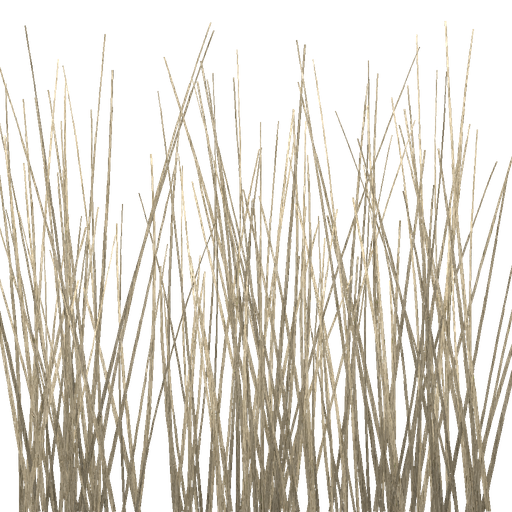
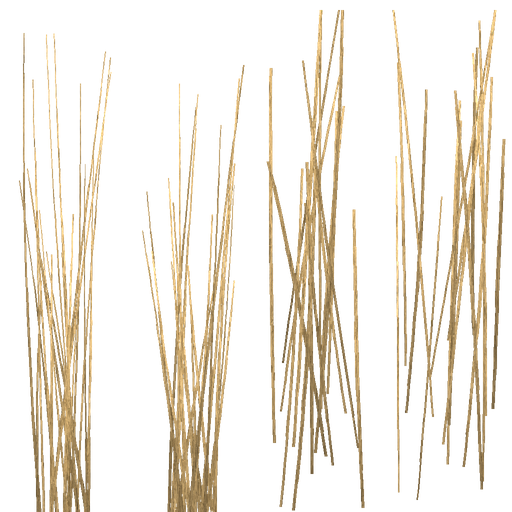
Jesle Dum2: nasypat seno – kupa + 1650 stébel (ambientCG CC0), materiál sena pro stodoly a půdy, test jesle_seno; poklop krčmy bez sklepa v modelu (nedělán)
Claude-Session: https://claude.ai/code/session_01DmjHz97xAq6SrpN6r8jG8o

diff --git a/puchart/nastroje/seno_textury.py b/puchart/nastroje/seno_textury.py
@@ -2,41 +2,58 @@
 Zdroj: ambientCG ThatchedRoof001A 1K-JPG (CC0, https://ambientcg.com/a/ThatchedRoof001A) – Color a NormalGL.
 Barva přeladěná na seno z předlohy KCD1 (medián kupy sRGB 143,130,107; světla 186,173,146 – rozbor fotky 15. 11.).
 Výstup hra/textury/seno/: seno_albedo.jpg (objem), seno_normal.jpg (objem), seno_stebla.png (karty stébel RGBA,
-pata dole v = 1, konec nahoře v = 0).   python3 nastroje/seno_textury.py <slozka ThatchedRoof001A_1K-JPG>"""
+pata dole v = 1, konec nahoře v = 0; 4 buňky vedle sebe: 0, 1 trsy z paty, 2, 3 volná stébla).   python3 nastroje/seno_textury.py <slozka ThatchedRoof001A_1K-JPG>"""
 import sys, os, math, random
 import numpy as np
 from PIL import Image, ImageDraw, ImageFilter
 SRC = sys.argv[1]; OUT = os.path.join(os.path.dirname(os.path.abspath(__file__)), "..", "hra", "textury", "seno")
 N = 512
 cil_median = np.array([143.0, 130.0, 107.0])       # KCD1 předloha, medián kupy
+TEPLO = np.array([1.06, 1.0, 0.86])   # ve hře chybí teplé odražené světlo (Compatibility bez GI, ambient z modré oblohy) – kupa na snímku vycházela šedomodrá; vyladěno snímkem tak, aby medián kupy ve hře ≈ předloha
 col = np.asarray(Image.open(os.path.join(SRC, "ThatchedRoof001A_1K-JPG_Color.jpg")).convert("RGB")).astype(float)
 med = np.median(col.reshape(-1, 3), axis=0)
-seno = np.clip((col - med) * 1.35 + cil_median, 0, 255)   # kontrast stébel o 35 % vyšší (předloha: světlé konce, tmavá hloubka)
+seno = np.clip(((col - med) * 1.35 + cil_median) * TEPLO, 0, 255)   # kontrast stébel o 35 % vyšší (předloha: světlé konce, tmavá hloubka)
 Image.fromarray(seno.astype(np.uint8)).resize((N, N), Image.LANCZOS).save(os.path.join(OUT, "seno_albedo.jpg"), quality=90)
 Image.open(os.path.join(SRC, "ThatchedRoof001A_1K-JPG_NormalGL.jpg")).convert("RGB").resize((N, N), Image.LANCZOS) \
     .save(os.path.join(OUT, "seno_normal.jpg"), quality=92)
 # --- stébla: kreslí se 2× větší a zmenší (vyhlazená alfa); barva stébla = proužek fotky sena podél vláken (svislá)
 S = 2 * N; rnd = random.Random(1393)
 # stébla světlejší než objem: 75. percentil kupy z předlohy (167,154,129) – volná stébla chytají světlo, objem je stín mezi nimi
-seno_st = np.clip((col - med) * 1.35 + np.array([167.0, 154.0, 129.0]), 0, 255)
+seno_st = np.clip(((col - med) * 1.35 + np.array([167.0, 154.0, 129.0])) * TEPLO * np.array([1.05, 1.0, 0.92]), 0, 255)   # stébla nahoře vycházela zelenomodrá (snímek: 66,72,59) – o 5 % teplejší
 foto = Image.fromarray(seno_st.astype(np.uint8)).resize((S, S), Image.LANCZOS)
 fa = np.asarray(foto).astype(float)
 rgb = np.zeros((S, S, 3)); alfa = Image.new("L", (S, S), 0); da = ImageDraw.Draw(alfa)
-for i in range(150):
-    x0 = rnd.uniform(0.04, 0.96) * S; delka = rnd.uniform(0.45, 1.0) * S * 0.97
-    sklon = rnd.uniform(-0.22, 0.22); ohyb = rnd.uniform(-0.12, 0.12)
-    w0 = rnd.uniform(5.0, 11.0); ton = rnd.uniform(0.82, 1.18); sx = rnd.randrange(S)
+# atlas BUNKY buněk vedle sebe (karta bere celou buňku – stébla nejsou useknutá hranou karty; snímek 15. 11.: výřezy
+# z jedné plochy stébel dávaly rovné hrany karet): buňky TRSY = trs, stébla z paty (trčící karty); ostatní = volná stébla
+# v různých směrech, celá uvnitř buňky (ležící karty – vrstvy stébel po povrchu kupy)
+BUNKY = 4; TRSY = (0, 1); CW = S / BUNKY; OKRAJ = 0.06 * CW
+for i in range(BUNKY * 22):
+    bunka = i % BUNKY; volne = bunka not in TRSY; bx = bunka * CW
+    for _pokus in range(40):
+        delka = (rnd.uniform(0.5, 0.95) if volne else rnd.uniform(0.45, 0.97)) * S
+        y_start = S - 1 - (rnd.uniform(0.0, 0.4) * S if volne else 0.0)   # volná stébla nezačínají u paty
+        delka = min(delka, y_start - 0.02 * S)
+        x0 = bx + (rnd.uniform(0.1, 0.9) if volne else rnd.uniform(0.3, 0.7)) * CW
+        sklon = rnd.uniform(-0.18, 0.18); ohyb = rnd.uniform(-0.05, 0.05)
+        xt = x0 + (sklon + ohyb) * delka
+        if bx + OKRAJ < min(x0, xt) and max(x0, xt) < bx + CW - OKRAJ and bx + OKRAJ < x0 + (sklon * 0.5 + ohyb * 0.25) * delka < bx + CW - OKRAJ: break
+    else:
+        continue
+    if volne and i >= BUNKY * 16: continue        # volných méně (řidší vrstva, ne deska)
+    w0 = rnd.uniform(4.0, 8.0); ton = rnd.uniform(0.82, 1.18); sx = rnd.randrange(S)
+    y_start = S - 1 - (rnd.uniform(0.0, 0.35) * S if volne else 0.0)   # volná stébla nezačínají u paty
+    if volne: delka = min(delka, y_start - 0.02 * S)
     body = []; kroky = 24
     for k in range(kroky + 1):
-        t = k / kroky; y = S - 1 - t * delka
+        t = k / kroky; y = y_start - t * delka
         x = x0 + sklon * t * delka + ohyb * (t * t) * delka
-        body.append((x, y, w0 * (1.0 - 0.65 * t)))
+        body.append((x, y, w0 * ((0.75 + 0.25 * math.sin(t * math.pi)) if volne else (1.0 - 0.65 * t))))
     vrstva = Image.new("L", (S, S), 0); dv = ImageDraw.Draw(vrstva)
     for (xa, ya, wa), (xb, yb, wb) in zip(body, body[1:]):
         dv.line([(xa, ya), (xb, yb)], fill=255, width=max(1, int(round((wa + wb) * 0.5))))
     m = np.asarray(vrstva).astype(float) / 255.0
     ys = np.arange(S)[:, None] * np.ones((1, S))
-    t = np.clip((S - 1 - ys) / max(delka, 1), 0, 1)
+    t = np.clip((y_start - ys) / max(delka, 1), 0, 1)
     jas = ton * (0.78 + 0.38 * t)                     # pata tmavší (stín v kupě), konec světlý (předloha)
     proužek = fa[:, (np.arange(S) + sx) % S, :] * jas[..., None]
     rgb = rgb * (1 - m[..., None]) + proužek * m[..., None]

diff --git a/puchart/docs/chyby.md b/puchart/docs/chyby.md
@@ -286,6 +286,7 @@
 | 280 | Každá viditelná lavice funkční – druhá lavice v Dum1 u další stěny nemá kolizi (Míša 15. 11.) | pravidla/svet/mista.json + hra/data/mista_stavby.json modely.lavice.rucni, hra/scripts/hlavni.gd _lavice_rucni, hra/scripts/lavice.gd (stred), hra/scripts/ves.gd _sezeni | rohové lavice do L v Dum1, Dum2, Rychta a hájovně mají kolizní kvádr jen pro jedno rameno; druhé rameno je jen v síti *_Interier (rozbor sítí: vodorovné plochy sedáku) | ruční lavice daty [x0, x1, y0, y1, z0, z1] modelu → kolizní uzel <model>_Kol_LaviceRucni (Dum1, Dum2, Rychta, Hajovna); venkovní lavice u krčmy (ves.gd _sezeni) dostanou kolizi *_Kol_Lavice a místa čelem ke stolu do hlavni.lavice (data sezeni jsou teď prázdná – krčma je celek bez venkovního sezení); krčma uvnitř lavice nemá (model bez vybavení) | pruchod:lavice_sezeni (20 lavic, 60 míst) | opraveno 15. 11. |
 | 281 | Žlab „nalít vodu“ (Míša 15. 11.) | hra/scripts/funkce.gd (nalij), hra/scripts/hlavni.gd (mat_voda), pravidla/svet/funkce.json zlab | žlab v chlévě Dum2 (Dum2_Kol_Zlab) byl jen kolize a síť bez vody | nabídka „Nalít vodu“ nad žlabem → hladina (rovina se shaderem vody potoků voda.gdshader, stojatá) v půdorysu kolize zmenšeném o stěny, 0,12 m pod horní hranou; voda zůstane, nabídka zmizí | pruchod:zlab_voda (PUCHART_JEN=zlab: 4 žlaby) + snímek docs/screens/funkce_zlab_voda.png | opraveno 15. 11. |
 | 282 | Žebříky: test musí hlídat počet a kontrola „zvenku přes stěnu“ nesmí tiše přeskočit; krčma bez trasy po půdě | hra/scripts/test_pruchod.gd _test_zebriky, pravidla/svet/mista.json modely.celky.KrcmaL.puda.trasa → hra/data/pruchody_mista.json puda_krcma_KrcmaL (nastroje/mista_rozmisteni.py) | test bral jen žebříky, které hra našla (chybějící žebřík by neviděl); když paprsek od paty nenašel stěnu, kontrola se přeskočila bez chyby; krčma neměla puda.trasa | počet hlavni.zebriky = domy s modelem v modely.domy.zebriky + celky se záznamem zebrik (11), nenalezená stěna = CHYBA, výpis zkontrolovaných (11 z 11); trasa po povale krčmy ze sestupu kolem otvoru | pruchod:zebrik_lezeni + pruchod:puda_krcma_KrcmaL | opraveno 15. 11. |
+| 283 | Jesle v chlévě Dum2 „nasypat seno“, seno fotorealistické podle KCD1 (Míša 15. 11.: „seno ale fotorealistické, pořád nemám“, předloha docs/reference/seno/kcd1_seno_staj_misa_15_11.jpg) | hra/scripts/funkce.gd (jesle_site, _jesle_bod, nasyp), pravidla/svet/funkce.json jesle (+ kopie hra/pravidla), hra/textury/seno/ (seno.tres, seno_stebla.tres, textury, LICENCE), hra/shaders/seno_stebla.gdshader, nastroje/seno_textury.py, hra/scripts/test_pruchod.gd _test_jesle | jesle (žebřinový koš nad žlabem v síti Dum2_Interier) byly bez funkce, v nich jen placka M_Slama (rovné pruhy textury mezi příčkami) | nabídka „Nasypat seno“ u jeslí → kupa sena podle profilu jeslí z dat (objem s šumem a ztmavením do hloubky + 1650 karet stébel: trsy trčí přes příčky a břevno, volná stébla leží po povrchu; atlas 4 buněk, alfa nůžky + alfa do pokrytí, normála kupy i na rubu karty); textury z ambientCG ThatchedRoof001A (CC0) přebarvené na medián kupy z předlohy; materiály samostatně pro stodoly a půdy; jen zblízka (stébla 14 m, objem 30 m); 7776 troj. | pruchod: jesle_seno (PUCHART_JEN=jesle) – nabídka zaměřená, seno v jeslích (objem v délce jeslí, vrch nad příčkami, nic za roubením), materiály, viditelnost, troj. ≤ 8000, nabídka pak zmizí; snímky docs/screens/funkce_jesle_seno.png, funkce_jesle_seno_srovnani.png | OPRAVENO (vzhled NEOVERENO – čeká na Míšu) |
 | 290 | „Co může mít funkci, tak ji mít bude“; okenice „otvírat“ (Míša 15. 11.) – okenice hradu byly slité v síti hradu | blender/hrady.py okno_palace, okenice, _kridlo_okenice, uhel_okenice_nika; blender/puchart_hrad.py kontrola_okenic, stavba (pohyb.json); pravidla/svet/hrad_puchart.json pohyb_okenice | okenice byly pevné desky (P.box „okenice“) v jedné síti hradu, nedaly se ovládat | každé křídlo vnitřní okenice = uzel Pohyb_okeniceN_l/_p s pivotem v pantu (hrana světlíku + přesah, strana do místnosti), druh dvere v hra/data/pohyb.json (dvere.gd beze změny), 1 materiál (prkna na svlacích, Havran kit.window); úhel otevření v nice podle boku niky (114°), bez niky k líci (176°); kontrola_okenic zmenšuje úhel / vyřadí okno, jehož křídlo zavřené či otevřené zajede do kolize (build/okenice.json); dálková verze pevné desky jako dřív | ladicí test okenic (klepnutí na okenici1 přepne, 27 skupin otevřené i zavřené bez průniku do kolize hradu), test_klik OK, snímek docs/screens/okenice_hrad_nika_otevrene.png (a docs/screens/okenice_hrad_zvenku.png) | opraveno 15. 11. (okna okenice3–5 v hradbě A vyřazena – okénka zakrytá zevnitř kolizí hradby, viz zpráva) |
 | 291 | Ohně hradu: černá kuchyně a kachlová kamna (Míša 15. 11.: „co může mít funkci“) | blender/puchart_hrad.py palac_A (značky HradA_Ohen_Kuchyne, HradA_Ohen_Kamna), blender/hrady.py uloz (ZNACKY → prázdné uzly), pravidla/svet/ohne.json + hra/data/ohne.json (druh kamna, mista hradA_*) | hrad neměl značky ohňů, jen pevné světlo „ohen“ v kuchyni | značky jako u domů (*_Ohen_*), záznamy s koren Hrad; kuchyně hori casy hodiny 5–13:30 a 16–21 (Havran choreografie_postav.md kuchařka), kamna hori noc; kamna bez plamene, světlo z topeniště do síně | ladicí skript (ohne._pridej na značky hradu): 2 ohně, světla 2, snímek docs/screens/ohen_hrad_kuchyne.png; ve hře NEOVĚŘENO – ohne.gd hledá jen pod Mista/Ves a nezná hori casy (úprava ohne.gd předána) | rozpracováno |
 | 292 | Studna hradu: rumpál a vědro funkční (Míša 15. 11.) | blender/hrady.py studna; blender/puchart_hrad.py (pohyb.json klíče lift, ropes, init); pravidla/svet/hrad_puchart.json pohyb_studna | rumpál, lano a vědro byly pevná síť | Pohyb_studna_rumpal (navijak, turns 9, use u kliky) a Pohyb_studna_vedro (vedro, lift k hladině −3,82 m, dur 6 s, ropes) ve formátu Havran blender/studna.py + scripts/pohyb.gd, skupina studna | pohyb.json obsahuje oba díly; pohyb vědra NEOVĚŘENO (druh vedro v dvere.gd dodává druhý agent) | rozpracováno |
